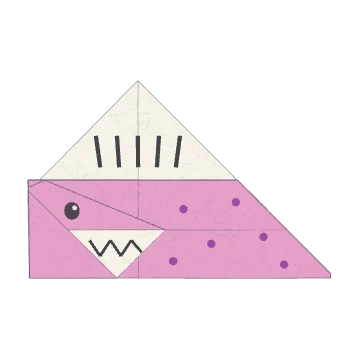
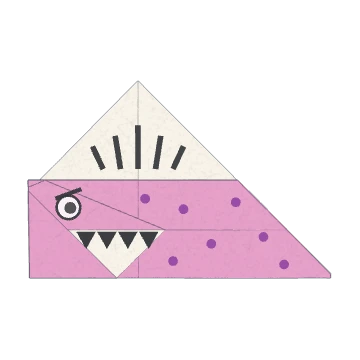
트리케라톱스·스피노사우루스 도안처럼 다듬기 (다리가 몸 아래로 나오게, 큰 눈·굵은 이빨·가시·줄무늬)

diff --git a/src/models/triceratops.js b/src/models/triceratops.js
@@ -1,7 +1,7 @@
 // 트리케라톱스 (정사각형 색종이)
 // 출처: Origami Club "A Triceratops" (Fumiaki Shingu) https://en.origami-club.com/easy/dinosaur/triceratops/
 // 세모로 반 접고 앞장 모서리를 가운데로 접은 뒤 대각선에서 뒤로 접어 세모를 만들고, 뾰족한 끝을 비스듬히 접어 뿔을 낸다.
-import { eye, PENCIL } from './parts/draw.js';
+import { bigEye, PENCIL } from './parts/draw.js';
 const H = 0.5;
 const SPOT = '#7a2350';
 const has = (t) => (c) => c.tags.has(t);
@@ -9,10 +9,10 @@ const flip = { spin: { a: [0, 0, 0], b: [0, 1, 0], angle: 180 } };
 
 // 도안 그림에서 잰 값 (scripts/diagram.mjs --fit)
 //  hornA: 뿔 접는 선이 왼쪽 비탈(y=x)과 만나는 점의 x, hornB: 그 선이 밑변과 만나는 점의 x
-//  leg: 뒤집은 뒤 왼쪽 끝을 접는 세로선의 x
-export const triceratopsParams = { hornA: -0.385, hornB: -0.186, leg: -0.284 };
+//  leg: 뒤집은 뒤 왼쪽 끝을 접는 선이 밑변과 만나는 x, legTilt: 그 선이 세로에서 기운 각도(도) — 도안 완성 그림처럼 다리 끝이 몸 아래로 조금 나온다
+export const triceratopsParams = { hornA: -0.385, hornB: -0.186, leg: -0.284, legTilt: 10 };
 export function makeTriceratops(P = triceratopsParams) {
-  const { hornA, hornB, leg } = P;
+  const { hornA, hornB, leg, legTilt } = P;
   return {
     id: 'triceratops',
     name: '트리케라톱스',
@@ -34,19 +34,20 @@ export function makeTriceratops(P = triceratopsParams) {
       { text: '접은 선을 따라 왼쪽 위를 뒤로 접어요.', moves: [{ line: [[-1, -1], [1, 1]], side: [-H, H], toward: -1, tag: 'back' }] },
       { text: '왼쪽 끝을 비스듬한 점선에서 위로 접어 올려요. 뿔이 돼요.', moves: [{ line: [[hornA, hornA], [hornB, -H]], side: [-H, -H], tag: 'horn' }] },
       { text: '종이를 뒤집어요.', moves: [flip], view: [0, -0.25, 1] },
-      { text: '앞장의 왼쪽 끝을 세로 점선에서 오른쪽으로 접어요. 다리가 돼요.', moves: [{ line: [[leg, -1], [leg, 1]], grab: [leg - 0.05, -H + 0.02], tag: 'leg' }] },
+      { text: '앞장의 왼쪽 끝을 점선에서 오른쪽으로 접어요. 끝이 아래로 조금 나오게 하면 다리가 돼요.', moves: [{ line: [[leg, -H], [leg + Math.tan((legTilt * Math.PI) / 180), 1 - H]], grab: [leg - 0.05, -H + 0.02], tag: 'leg' }] },
       {
         text: '연필로 눈과 머리 장식의 줄무늬를 그려요.',
         view: [0, -0.25, 1],
         draw: [
-          ...eye(0.22, -0.36, 0.026),
-          ...[0.07, 0.12, 0.17].map((x) => ({ line: [[x, -0.16], [x + 0.03, -0.26]], w: 0.012, color: PENCIL })),
+          ...bigEye(0.235, -0.37, 0.032, { look: [0.5, -0.2], brow: -0.8, side: 1 }),
+          // 머리 장식: 비스듬한 굵은 줄 셋 (아래 왼쪽에서 위 오른쪽으로 늘어섬)
+          ...[[0.035, -0.345], [0.085, -0.285], [0.14, -0.235]].map(([x, y]) => ({ line: [[x - 0.025, y + 0.033], [x + 0.025, y - 0.033]], w: 0.016, color: PENCIL })),
         ],
       },
       {
         text: '색연필로 몸에 점무늬를 그리면 완성!',
         view: [0, -0.25, 1],
-        draw: [[-0.07, -0.08], [-0.05, -0.2], [-0.15, -0.17], [-0.03, -0.33], [-0.13, -0.29], [-0.22, -0.26], [-0.09, -0.42], [-0.2, -0.4], [-0.3, -0.37]].map(([x, y]) => ({ dot: [x, y], r: 0.011, color: SPOT })),
+        draw: [[-0.06, -0.07], [-0.04, -0.2], [-0.14, -0.15], [-0.03, -0.34], [-0.13, -0.28], [-0.22, -0.24], [-0.1, -0.43], [-0.2, -0.4], [-0.32, -0.38], [-0.05, -0.12]].map(([x, y]) => ({ dot: [x, y], r: 0.012, color: SPOT })),
       },
     ],
   };

diff --git a/src/models/spinosaurus.js b/src/models/spinosaurus.js
@@ -1,7 +1,7 @@
 // 스피노사우루스 (정사각형 색종이, 마름모 방향)
 // 출처: Origami Club "A Spinosaurus" (Fumiaki Shingu) https://en.origami-club.com/easy/dinosaur/spinosaurus/
 // 아래 변을 가운데 선에 맞춰 접고 아래·위를 접어 띠를 만든 뒤, 오른쪽 끝을 접고 위아래로 뒤집어 왼쪽 끝을 접으면 머리가 된다.
-import { eye, PENCIL } from './parts/draw.js';
+import { bigEye, fillPoly, PENCIL } from './parts/draw.js';
 const R = Math.SQRT1_2;
 const C = Math.cos(Math.PI / 8), S = Math.sin(Math.PI / 8);
 const SPOT = '#8a3fa0';
@@ -38,18 +38,20 @@ export function makeSpinosaurus(P = spinosaurusParams) {
       { text: '위아래로 뒤집어요. 흰 세모가 위로 솟아요.', moves: [{ spin: { a: [0, 0, 0], b: [1, 0, 0], angle: 180 } }], view: V },
       { text: '왼쪽 끝을 세로 점선에서 오른쪽으로 접어요. 머리가 돼요.', moves: [{ line: [[head, -1], [head, 1]], side: [-R, 0], tag: 'head' }] },
       {
-        text: '연필로 눈과 이빨, 등 돛의 가시를 그려요.',
+        text: '연필로 눈과 뾰족한 이빨, 등 돛의 가시를 그려요.',
         view: V,
         draw: [
-          ...eye(-0.19, 0.055, 0.022),
-          { line: [[-0.14, -0.03], [-0.11, -0.075], [-0.08, -0.03], [-0.05, -0.075], [-0.02, -0.03], [0.01, -0.065]], w: 0.008, color: PENCIL },
-          ...[-0.12, -0.06, 0, 0.06, 0.12].map((x) => ({ line: [[x * 0.9, 0.18], [x, 0.27]], w: 0.012, color: PENCIL })),
+          ...bigEye(-0.2, 0.065, 0.034, { look: [0.4, -0.1], brow: 0.8, side: 1 }),
+          // 흰 입 윗변에서 내려오는 이빨
+          ...[-0.15, -0.09, -0.03, 0.03].map((x) => fillPoly([[x - 0.028, -0.005], [x + 0.028, -0.005], [x, -0.055]], PENCIL)),
+          // 돛의 가시: 밑에서 위로 부채처럼 퍼지는 굵은 줄
+          ...[-2, -1, 0, 1, 2].map((k) => ({ line: [[k * 0.05, 0.175], [k * 0.065, 0.3 - Math.abs(k) * 0.03]], w: 0.016, color: PENCIL })),
         ],
       },
       {
         text: '색연필로 몸에 점무늬를 그리면 완성!',
         view: V,
-        draw: [[0.13, 0.06], [0.28, 0.08], [0.21, -0.04], [0.36, -0.02], [0.1, -0.09], [0.42, -0.1]].map(([x, y]) => ({ dot: [x, y], r: 0.012, color: SPOT })),
+        draw: [[0.13, 0.06], [0.28, 0.08], [0.21, -0.04], [0.36, -0.02], [0.1, -0.09], [0.42, -0.1], [0.02, 0.09]].map(([x, y]) => ({ dot: [x, y], r: 0.014, color: SPOT })),
       },
     ],
   };

diff --git a/src/models/parts/draw.js b/src/models/parts/draw.js
@@ -25,3 +25,11 @@ export const heart = (c, r, n = 40) => Array.from({ length: n }, (_, i) => {
   const t = (i / n) * Math.PI * 2;
   return [c[0] + r * 0.0625 * 16 * Math.sin(t) ** 3, c[1] + r * 0.0625 * (13 * Math.cos(t) - 5 * Math.cos(2 * t) - 2 * Math.cos(3 * t) - Math.cos(4 * t))];
 });
+// 큰 눈: 흰자 + 연필 테두리 + 한쪽으로 쏠린 눈동자, brow 를 주면 찡그린 눈썹 (공룡처럼 무섭게)
+//  look: 눈동자가 쏠리는 방향 [dx, dy] (-1~1), brow: 눈썹 기울기 (+면 바깥쪽이 올라감, 0 이면 없음)
+export const bigEye = (x, y, r, { look = [0, 0], brow = 0, side = 1 } = {}) => [
+  { dot: [x, y], r, color: '#ffffff' },
+  { line: arc([x, y], r, r, 0, 360, 28), w: r * 0.22, color: PENCIL },
+  { dot: [x + look[0] * r * 0.4, y + look[1] * r * 0.4], r: r * 0.5, color: PENCIL },
+  ...(brow ? [{ line: [[x - side * r * 1.1, y + r * (1.15 - brow * 0.5)], [x + side * r * 1.1, y + r * (1.15 + brow * 0.5)]], w: r * 0.35, color: PENCIL }] : []),
+];

diff --git a/src/i18n/en.js b/src/i18n/en.js
@@ -521,7 +521,7 @@ export const enModels = {
       'Fold the upper-left part behind along the crease.',
       'Fold the left tip up along the slanted dotted line. It becomes the horns.',
       'Turn the paper over.',
-      'Fold the left tip of the front layer to the right along the dotted line. It becomes a leg.',
+      'Fold the left tip of the front layer to the right along the dotted line, letting the tip stick out a little below. It becomes a leg.',
       'Draw the eye and the stripes on the frill with a pencil.',
       'Draw spots on the body with a colored pencil, and you are done!',
     ],
